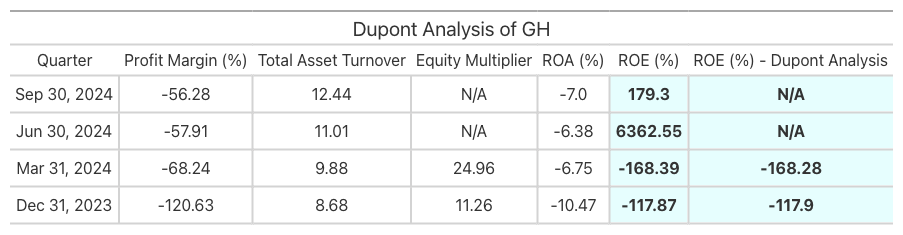
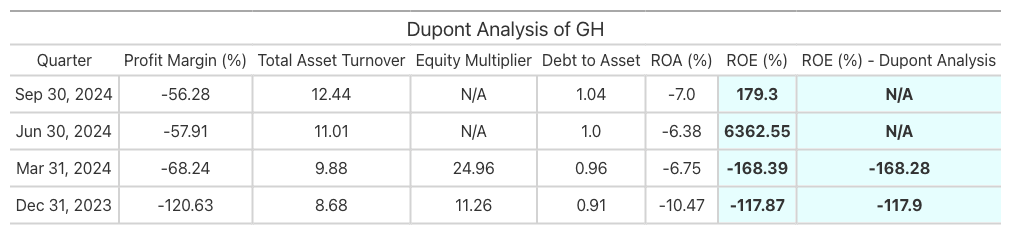
update dupont table

diff --git a/_posts/2025-01-17-Dupont_Analysis.md b/_posts/2025-01-17-Dupont_Analysis.md
@@ -11,9 +11,10 @@ This method analyzes a company's profitability by breaking down a company's retu
 * How it utilizes its assets (total asset turnover) 
 * How it leverages debt (equity multiplier).
 
-With this method one can get the fuller picture of a company's overall financial health and performance, on a quarterly basis.
-
 Dupont Analysis says: ROE = Profit Margin x Total Asset Turnover x Equity Multiplier
+
+With this method one can get the fuller picture of a company's overall financial health and performance, on a quarterly basis. Additional metrics were added for more breadth on the company like ROA and Debt-to-Asset ratios.
+
 
 
 
